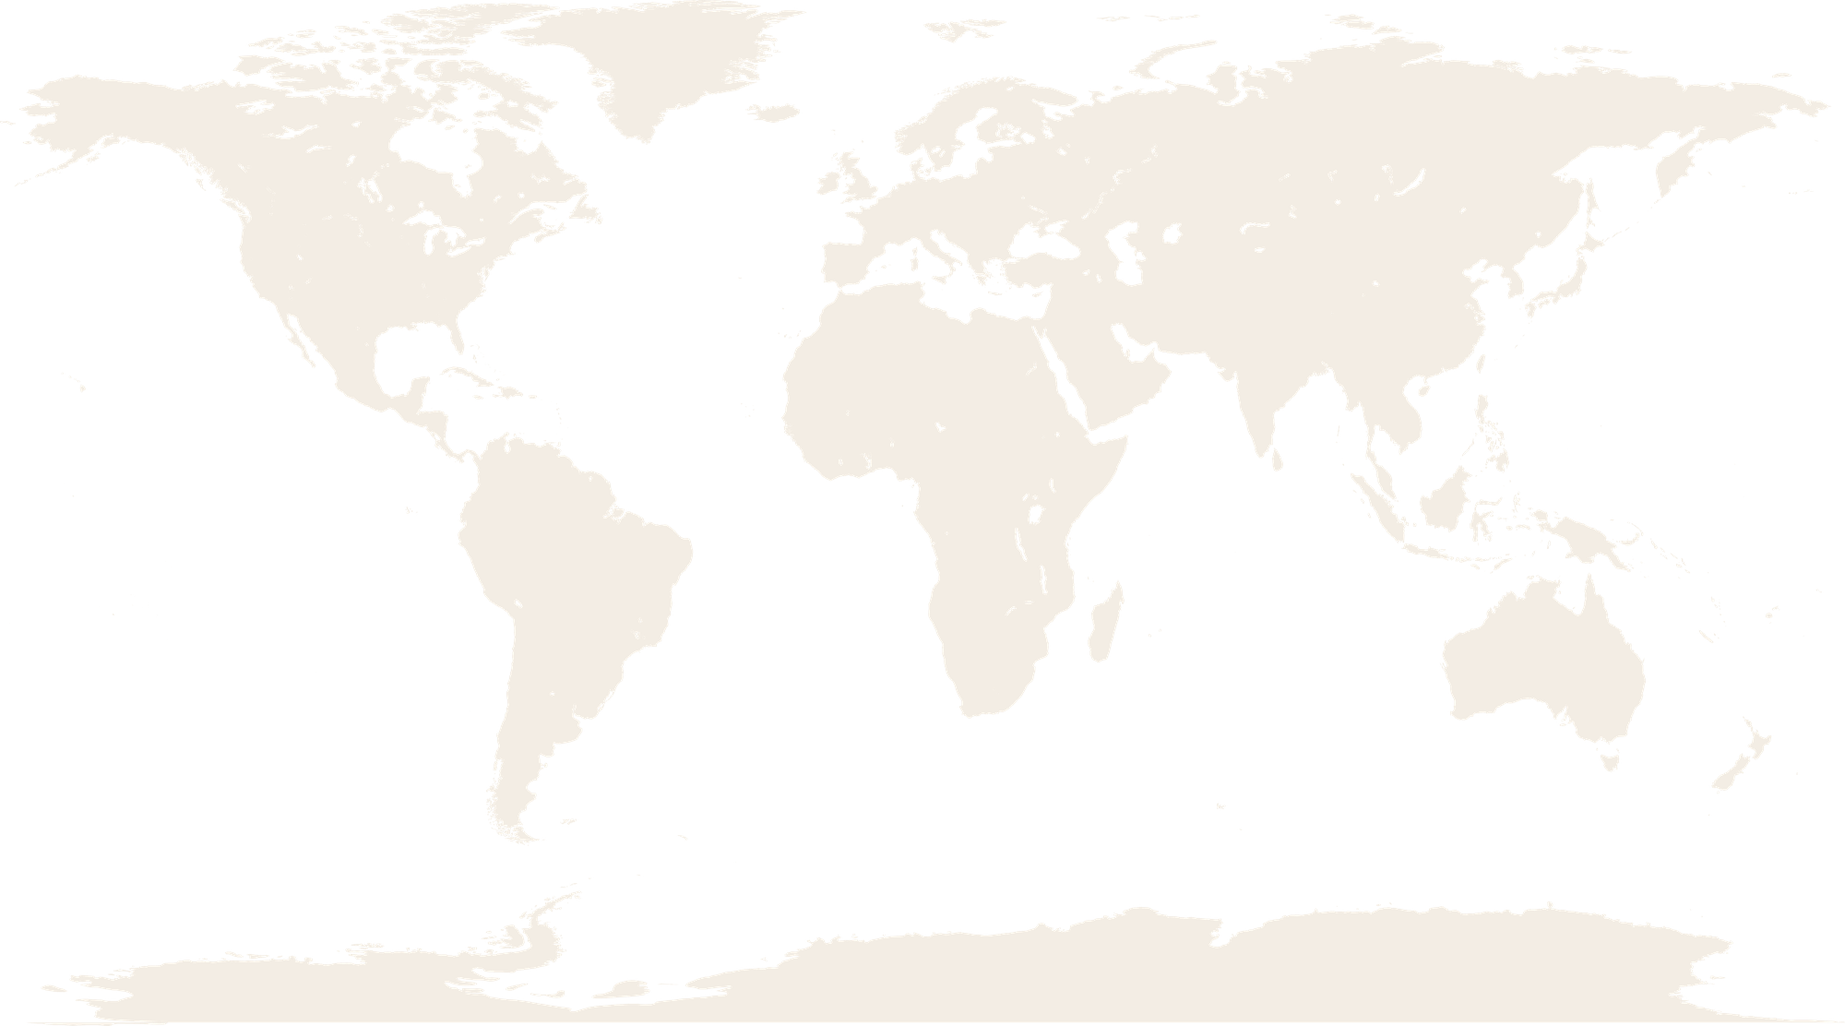
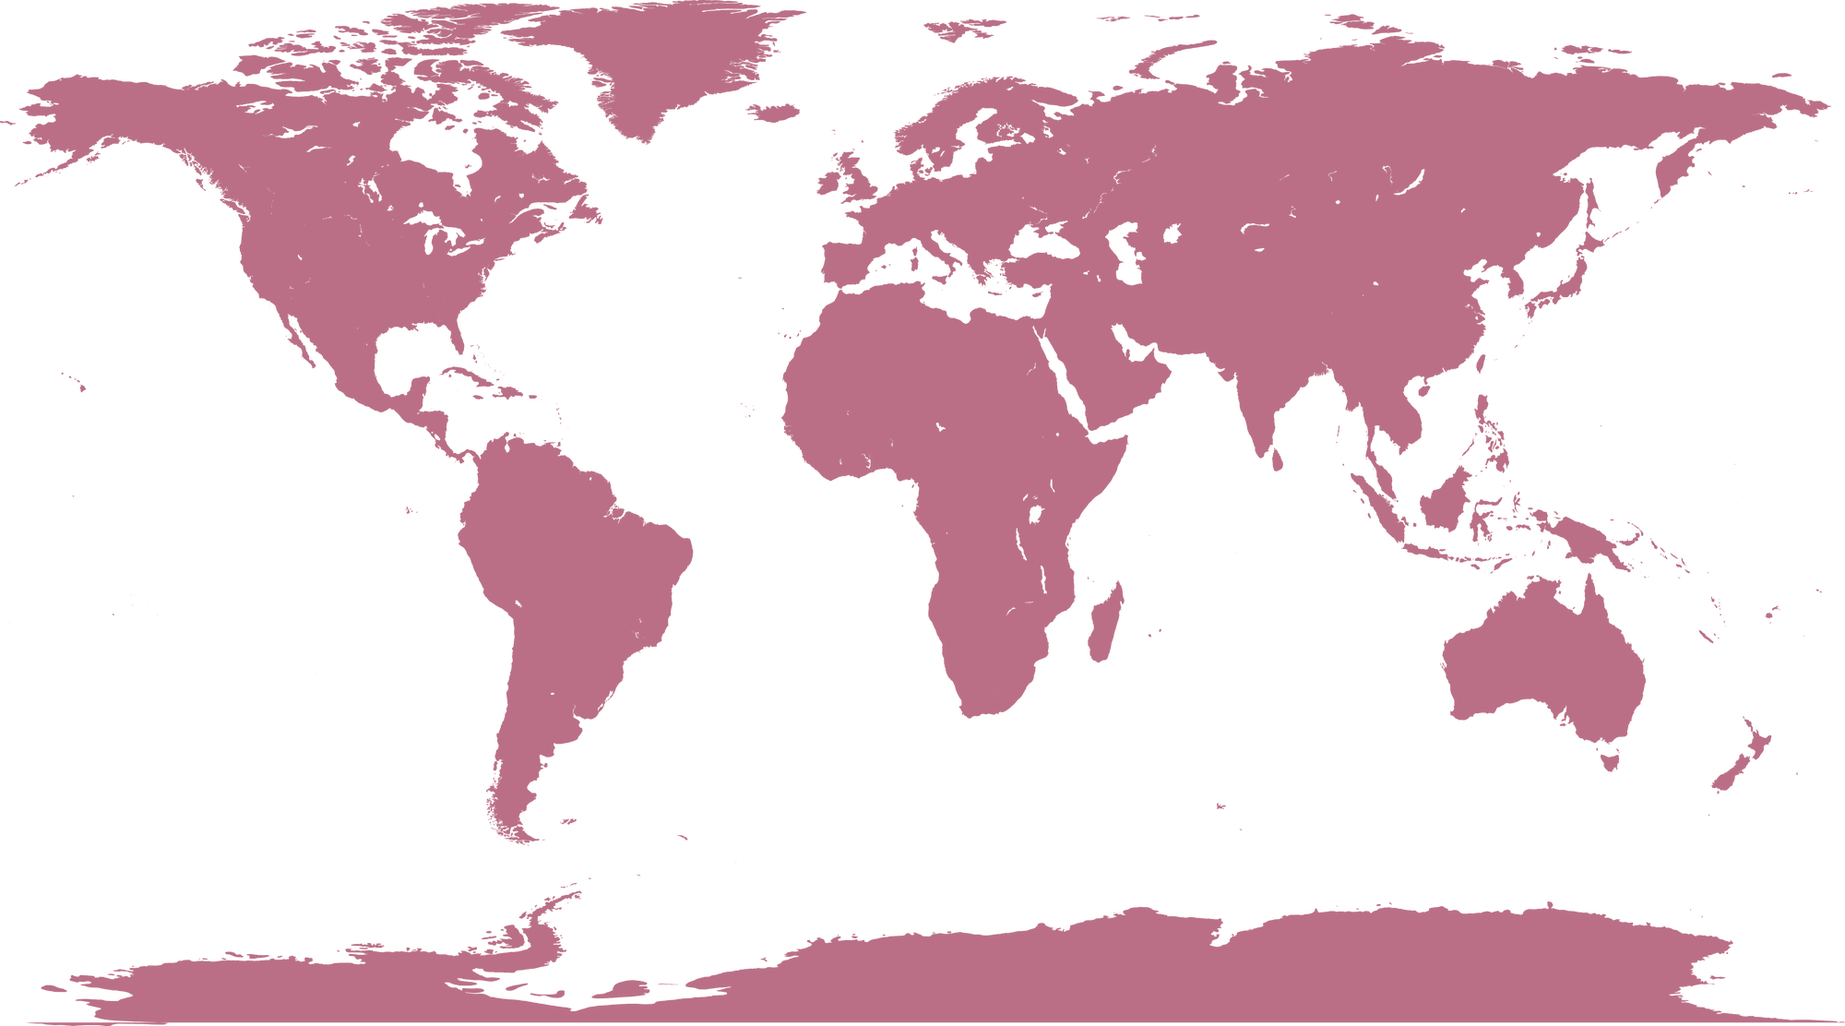
Redesign onboarding screen, tab bar, and dial-screen palette
Onboarding (step 3): replace the plain dark form with a sunset-island
hero photo, logo/back button baked into the image, pink icon fields,
and a pink pill CTA; drop the example hint text per feedback.

Main tab bar: swap the 3-icon dark bar for a 4-icon pink bar (island/
boat/chat/menu) built from a provided icon sheet, with a bubble that
slides between tabs and pops the active icon up into a notch cut
directly out of the bar (CSS mask, not an image) so the real page
background shows through. Added press/tap feedback on every icon,
tuned bar height (64->58->55->45->35px) and icon sizing to match,
and matched the cutout's backdrop to each tab's own background color
so it doesn't look like a stray white strip on the dark tabs.

Coordinate dial screen: recolored the drifting map (dark pink land,
kept the transparent-ocean alpha mask) and changed the screen's base
color to brown for the ocean. Replaced the brightness-filter approach
to tinting the overlaid video's text with an SVG duotone filter
(feColorMatrix -> feComponentTransfer), since CSS sepia/hue-rotate
can't usefully recolor near-white pixels - now renders baby pink.

Claude-Session: https://claude.ai/code/session_01HxxmRPC4h2whAjH8jXWGEn

diff --git a/index.html b/index.html
@@ -179,32 +179,120 @@
     background: var(--accent);
   }
 
-  .field {
-    width: 100%;
-    background: rgba(243,237,228,.06);
-    border: 1px solid rgba(243,237,228,.18);
+  .onb-field {
+    display: flex;
+    align-items: center;
+    gap: 14px;
+    height: 58px;
+    padding: 0 18px;
+    margin-top: 12px;
+    border-radius: 18px;
+    background: #2a201d;
+    border: 1px solid rgba(255,255,255,.12);
+  }
+  .onb-input {
+    flex: 1;
+    min-width: 0;
+    border: none;
+    outline: none;
+    background: transparent;
     color: #f3ede4;
     font-family: 'Noto Sans KR', sans-serif;
-    font-size: 16px;
-    padding: 13px 16px;
-    border-radius: 12px;
-    outline: none;
+    font-size: 15px;
   }
-  .field::placeholder { color: rgba(243,237,228,.32); }
+  .onb-input::placeholder { color: #8d7f7c; }
 
-  .primary-btn {
+  .onb-cta {
     width: 100%;
+    height: 56px;
+    margin-top: 34px;
     border: none;
-    background: var(--accent);
-    color: #15120f;
-    font-family: 'Noto Sans KR', sans-serif;
-    font-weight: 600;
-    font-size: 14px;
-    padding: 14px;
     border-radius: 999px;
+    background: #e8aab7;
+    color: #1d1714;
+    font-family: 'Noto Sans KR', sans-serif;
+    font-weight: 700;
+    font-size: 16px;
     cursor: pointer;
   }
-  .primary-btn:disabled { opacity: .35; cursor: default; }
+  .onb-cta:disabled { opacity: .35; cursor: default; }
+
+  @property --notch-x {
+    syntax: '<percentage>';
+    inherits: true;
+    initial-value: 12.5%;
+  }
+  .tab-bar {
+    --notch-x: 12.5%;
+    position: relative;
+    flex: none;
+    display: flex;
+  }
+  .tab-bar::before {
+    content: '';
+    position: absolute;
+    inset: 0;
+    background: #e8aab7;
+    -webkit-mask-image: radial-gradient(circle 42px at var(--notch-x) 7px, transparent 41px, #000 42px);
+    mask-image: radial-gradient(circle 42px at var(--notch-x) 7px, transparent 41px, #000 42px);
+    transition: --notch-x .55s cubic-bezier(.34, 1.45, .5, 1);
+  }
+  .tab-bubble {
+    position: absolute;
+    top: -26px;
+    left: 0;
+    width: 25%;
+    height: 66px;
+    display: flex;
+    align-items: center;
+    justify-content: center;
+    pointer-events: none;
+    transition: transform .55s cubic-bezier(.34, 1.45, .5, 1);
+  }
+  .tab-bubble::before {
+    content: '';
+    width: 64px;
+    height: 64px;
+    border-radius: 50%;
+    background: #e8aab7;
+  }
+  .tab-btn {
+    flex: 1;
+    height: calc(35px + env(safe-area-inset-bottom));
+    display: flex;
+    align-items: center;
+    justify-content: center;
+    border: none;
+    background: transparent;
+    color: #fff;
+    cursor: pointer;
+  }
+  .tab-icon {
+    --lift: 0px;
+    width: 28px;
+    height: 28px;
+    opacity: .85;
+    transform: translateY(var(--lift));
+    transition: transform .55s cubic-bezier(.34, 1.45, .5, 1), opacity .3s;
+  }
+  .tab-icon * { stroke: currentColor; stroke-width: 3; stroke-linejoin: round; }
+  .tab-btn[data-tab="home"] .tab-icon,
+  .tab-btn[data-tab="explore"] .tab-icon,
+  .tab-btn[data-tab="chat"] .tab-icon { width: 31px; height: 31px; }
+  .tab-btn.active .tab-icon {
+    --lift: calc(7px - 17.5px - env(safe-area-inset-bottom) / 2);
+    opacity: 1;
+  }
+  .tab-btn:active .tab-icon {
+    transform: translateY(var(--lift)) scale(.82);
+    transition-duration: .08s;
+  }
+  .tab-icon.pop { animation: tabPop .45s cubic-bezier(.34, 1.45, .5, 1); }
+  @keyframes tabPop {
+    0%   { transform: translateY(var(--lift)) scale(1); }
+    35%  { transform: translateY(calc(var(--lift) - 4px)) scale(1.18); }
+    100% { transform: translateY(var(--lift)) scale(1); }
+  }
 
   .deed-row {
     display: flex;
@@ -225,6 +313,16 @@
 </head>
 <body>
 
+<svg width="0" height="0" style="position:absolute">
+  <filter id="pinkDuo" color-interpolation-filters="sRGB">
+    <feColorMatrix type="matrix" values="0.299 0.587 0.114 0 0  0.299 0.587 0.114 0 0  0.299 0.587 0.114 0 0  0 0 0 1 0"/>
+    <feComponentTransfer>
+      <feFuncR type="table" tableValues="0 1.113"></feFuncR>
+      <feFuncG type="table" tableValues="0 0.825"></feFuncG>
+      <feFuncB type="table" tableValues="0 0.930"></feFuncB>
+    </feComponentTransfer>
+  </filter>
+</svg>
 <div class="frame" id="frame" style="--accent:#c98a4b;">
 
   <!-- Step 0 — NFC tap -->
@@ -272,9 +370,9 @@
   </div>
 
   <!-- Step 2 — coordinate dial (swipe up to continue) -->
-  <div class="screen plot-map-bg" data-step="2" style="background-color:#0c0a09; color:#f3ede4; padding:0;">
+  <div class="screen plot-map-bg" data-step="2" style="background-color:#4a3024; color:#f3ede4; padding:0;">
     <div class="coord-map-drift" style="position:absolute; inset:0; background-image:url('assets/world-map.png'); opacity:.5;"></div>
-    <video id="dial-video" src="assets/intro-dial.mp4" muted playsinline preload="auto" style="position:absolute; inset:0; width:100%; height:100%; object-fit:cover; object-position:center bottom; opacity:0; transition:opacity .25s ease; filter:brightness(1.5); mix-blend-mode:screen; pointer-events:none;"></video>
+    <video id="dial-video" src="assets/intro-dial.mp4" muted playsinline preload="auto" style="position:absolute; inset:0; width:100%; height:100%; object-fit:cover; object-position:center bottom; opacity:0; transition:opacity .25s ease; filter:url(#pinkDuo); mix-blend-mode:screen; pointer-events:none;"></video>
 
     <div id="dial-drag" style="position:relative; flex:1; display:flex; flex-direction:column; align-items:center; justify-content:flex-end; width:100%; padding:32px 32px calc(56px + env(safe-area-inset-bottom)); touch-action:none; cursor:grab;">
       <div style="display:flex; flex-direction:column; align-items:center; gap:7px; color:rgba(243,237,228,.4); animation: swipeHint 1.8s ease-in-out infinite;">
@@ -285,16 +383,32 @@
   </div>
 
   <!-- Step 3 — basic info input -->
-  <div class="screen" data-step="3" style="background:#0c0a09; color:#f3ede4; align-items:center; justify-content:center; padding:40px 30px;">
-    <div style="width:100%; max-width:320px;">
-      <div style="font-family:'Playfair Display', serif; font-style:italic; font-size:12px; letter-spacing:.1em; color:rgba(243,237,228,.5); text-align:center;">이 섬의 주인은 누구인가요?</div>
-      <input id="profile-nickname" class="field" type="text" placeholder="닉네임" maxlength="16" style="margin-top:22px;">
+  <div class="screen" data-step="3" style="background:#1d1714; color:#f3ede4; padding:0; overflow-y:auto;">
+    <div style="position:relative; flex:none; height:min(44dvh, 380px); overflow:hidden;">
+      <img src="assets/onboarding-hero.jpg" alt="" style="display:block; width:100%; height:100%; object-fit:cover; object-position:center 40%;">
+      <div style="position:absolute; left:0; right:0; bottom:0; height:40%; background:linear-gradient(to bottom, rgba(29,23,20,0), #1d1714);"></div>
+      <button id="onb-back" aria-label="이전으로" style="position:absolute; left:0; top:calc(40px + env(safe-area-inset-top)); width:48px; height:48px; border:none; background:transparent; cursor:pointer;"></button>
+    </div>
 
-      <div style="font-family:'Playfair Display', serif; font-style:italic; font-size:12px; letter-spacing:.1em; color:rgba(243,237,228,.5); text-align:center; margin-top:30px;">당신의 섬에 이름을 붙여주세요</div>
-      <div style="font-size:11px; color:rgba(243,237,228,.35); text-align:center; margin-top:4px;">예: 고요섬, 물결섬</div>
-      <input id="profile-island" class="field" type="text" placeholder="섬 이름" maxlength="12" style="margin-top:14px;">
+    <div style="flex:none; padding:0 30px calc(28px + env(safe-area-inset-bottom));">
+      <div style="text-align:center;">
+        <div style="font-size:23px; font-weight:700;">당신의 섬이 기다리고 있어요</div>
+        <div style="font-size:13.5px; color:rgba(243,237,228,.6); margin-top:8px;">이름을 정하고, 나만의 공간으로 떠나보세요.</div>
+      </div>
 
-      <button id="profile-confirm" class="primary-btn" disabled style="margin-top:32px;">나의 섬으로 이동</button>
+      <div style="margin-top:30px; font-size:14px;">이 섬의 주인은 누구인가요?</div>
+      <label class="onb-field">
+        <svg width="26" height="26" viewBox="0 0 24 24" fill="none" aria-hidden="true"><circle cx="12" cy="8" r="4.5" fill="#e8aab7"/><path d="M4 21c0-4.4 3.6-7.5 8-7.5s8 3.1 8 7.5z" fill="#e8aab7"/></svg>
+        <input id="profile-nickname" class="onb-input" type="text" placeholder="닉네임을 입력해주세요" maxlength="16">
+      </label>
+
+      <div style="margin-top:22px; font-size:14px;">당신의 섬에 이름을 붙여주세요</div>
+      <label class="onb-field">
+        <svg width="26" height="26" viewBox="0 0 24 24" fill="none" aria-hidden="true"><path d="M3 20.5c3-1.6 6-1.6 9 0 3-1.6 6-1.6 9 0z" fill="#e8aab7"/><path d="M12 19.5c-.3-3.5.2-7 1.4-10.5" stroke="#e8aab7" stroke-width="1.8" stroke-linecap="round"/><path d="M13.4 9c-2-2.5-4.6-3.2-7.2-2.4M13.4 9c1.6-2.8 4.2-3.7 7-2.6M13.4 9c-.4-2.6.4-4.6 2.2-5.8M13.4 9c-1.4-2-.9-4.4.2-5.8" stroke="#e8aab7" stroke-width="1.8" stroke-linecap="round"/></svg>
+        <input id="profile-island" class="onb-input" type="text" placeholder="섬 이름을 입력해주세요" maxlength="12">
+      </label>
+
+      <button id="profile-confirm" class="onb-cta" disabled>나의 섬으로 이동</button>
     </div>
   </div>
 
@@ -380,19 +494,14 @@
 
     </div>
 
-    <div style="flex:none; display:flex; background:#15120f; padding-bottom:env(safe-area-inset-bottom); border-top:1px solid rgba(243,237,228,.08);">
-      <button class="tab-btn active" data-tab="home" style="flex:1; display:flex; flex-direction:column; align-items:center; gap:4px; padding:11px 0 9px; border:none; background:transparent; cursor:pointer; color:#f3ede4;">
-        <svg width="20" height="20" viewBox="0 0 24 24" fill="none"><path d="M4 11.5L12 4L20 11.5" stroke="currentColor" stroke-width="1.6" stroke-linecap="round" stroke-linejoin="round"/><path d="M6 10V20H18V10" stroke="currentColor" stroke-width="1.6" stroke-linejoin="round"/></svg>
-        <span style="font-size:10.5px; letter-spacing:.04em;">나의 섬</span>
-      </button>
-      <button class="tab-btn" data-tab="explore" style="flex:1; display:flex; flex-direction:column; align-items:center; gap:4px; padding:11px 0 9px; border:none; background:transparent; cursor:pointer; color:rgba(243,237,228,.4);">
-        <svg width="20" height="20" viewBox="0 0 24 24" fill="none"><circle cx="12" cy="10" r="6.5" stroke="currentColor" stroke-width="1.6"/><path d="M12 3.5V16.5M5.5 10H18.5" stroke="currentColor" stroke-width="1.2" opacity=".6"/><path d="M12 16.5C13.5 19 15 20.5 15 20.5H9C9 20.5 10.5 19 12 16.5Z" stroke="currentColor" stroke-width="1.6" stroke-linejoin="round"/></svg>
-        <span style="font-size:10.5px; letter-spacing:.04em;">둘러보기</span>
-      </button>
-      <button class="tab-btn" data-tab="chat" style="flex:1; display:flex; flex-direction:column; align-items:center; gap:4px; padding:11px 0 9px; border:none; background:transparent; cursor:pointer; color:rgba(243,237,228,.4);">
-        <svg width="20" height="20" viewBox="0 0 24 24" fill="none"><path d="M4 5.5H20V16H9L5 19.5V16H4V5.5Z" stroke="currentColor" stroke-width="1.6" stroke-linejoin="round"/></svg>
-        <span style="font-size:10.5px; letter-spacing:.04em;">커뮤니티</span>
-      </button>
+    <div id="tab-menu" class="tab-panel" style="display:none; flex:1; min-height:0; align-items:center; justify-content:center; background:#1d1714; color:rgba(243,237,228,.5); font-size:13px;">준비 중이에요</div>
+
+    <div class="tab-bar">
+      <div id="tab-bubble" class="tab-bubble"></div>
+      <button class="tab-btn active" data-tab="home" aria-label="나의 섬"><svg class="tab-icon" viewBox="46.3 238.5 124.4 118.9" fill="currentColor" aria-hidden="true"><path d="M83.54,336.61c-.47,0-.94-.02-1.42-.05-2.99-.22-5.82-1.13-8.54-2.02-2.85-.92-5.79-1.88-8.94-2.04-.45-.03-1.68.05-2.88.12-5.67.34-7.06.31-7.8-.71-1.06-1.46.22-3.44,2.95-6.56l.07-.08c3.07-3.52,7.69-8.14,12.37-12.38,13.98-12.66,26.51-17.98,40.42-17.15,2.63-9.5,6.43-17.6,11.33-24.12-6.31-1.27-12.37-1.16-19.35.34-.27.06-.85.24-1.46.44-3.83,1.23-6.43,1.92-7.6.26-2.1-2.99,3.21-8.62,3.82-9.25,5.65-5.83,13.92-8.52,21.64-7.31l-.06-.08c-2.73-2.11-5.44-4.09-8.46-5.34-.44-.18-1.45-.47-2.44-.75-2.41-.69-3.45-1.02-3.99-1.46-1.41-1.15-1.38-2.35-1.24-2.97.54-2.35,4.35-3.59,6.57-4.12,7.45-1.78,13.97-.87,18.88,2.62,4,2.85,6.63,7.29,7.69,12.92.15-.13.31-.26.46-.4,1.08-.93,2.2-1.9,3.54-2.67,8.16-4.7,17.32-3.72,23.89,2.56,2.19,2.09,4.31,4.51,3.4,6.56-.99,2.23-4.37,1.97-8.27,1.68-1.43-.11-2.78-.21-3.76-.16-1.65.09-4.25.51-5.81.86-.23.05-.87.24-1.61.47,9.63,3.72,15.12,10.55,15.95,19.89,0,.09.31,9.3-1.82,10.67-.81.52-1.99.32-2.33.25-1.35-.29-2.65-2.01-5.1-5.6-.58-.84-1.12-1.64-1.44-2.03-5.22-6.31-12.15-11.25-19.59-13.99-2.8,4.31-5.03,9.44-6.65,15.28-1.56,5.64-1.81,7.84-1.83,8.61.47.18,1.22.42,1.76.59,1.03.33,2.01.64,2.66.95,5.35,2.56,9.1,5.85,13.07,9.33,1.76,1.54,3.58,3.14,5.55,4.67,2.24,1.74,5,2.83,7.91,3.98,4.93,1.95,10.03,3.96,12.63,9.35.73,1.52,1.57,3.72.3,5.23-1.57,1.86-4.8.94-8.21-.05-1.23-.35-2.38-.68-3.19-.79-4.32-.57-8.15-.42-12.04.48-1.53.35-3,.94-4.56,1.56-1.7.68-3.47,1.38-5.33,1.76-6.11,1.25-11.26-.34-16.24-1.88-3.78-1.17-7.7-2.37-12.05-2.33-3.93.04-7.64,1.24-11.23,2.4-3.7,1.2-7.51,2.43-11.6,2.43ZM64.44,329.51c.13,0,.24,0,.35,0,3.55.18,6.68,1.19,9.72,2.18,2.68.87,5.2,1.69,7.83,1.88,4.05.29,7.86-.94,11.88-2.24,3.81-1.23,7.74-2.51,12.13-2.55,4.83-.05,8.97,1.23,12.96,2.47,4.83,1.49,9.39,2.9,14.75,1.81,1.6-.33,3.16-.95,4.82-1.61,1.6-.64,3.25-1.29,5-1.7,4.25-.98,8.42-1.15,13.11-.53,1.03.14,2.29.5,3.63.88,1.48.43,4.18,1.2,5.04.98,0-.23-.09-.81-.65-1.97-2.09-4.33-6.43-6.05-11.03-7.87-2.98-1.18-6.07-2.4-8.65-4.39-2.04-1.58-3.9-3.21-5.69-4.78-3.81-3.34-7.4-6.5-12.38-8.88-.46-.22-1.43-.53-2.28-.8-1.54-.49-2.44-.79-2.97-1.16-.86-.6-1.83-1.29,1.06-11.7,1.83-6.6,4.42-12.36,7.71-17.13l.64-.93,1.07.36c8.38,2.83,16.2,8.27,22.02,15.3.4.49.96,1.3,1.61,2.24.82,1.2,2.45,3.58,3.23,4.27.42-1.72.68-6.28.56-7.63-.8-9.03-6.41-15.18-16.68-18.26l-.12-.03c-.37-.08-1.36-.29-1.65-1.3-.14-.46-.14-1.17.61-1.91.68-.67,5.78-2.05,5.83-2.06,1.66-.37,4.42-.82,6.29-.93,1.18-.07,2.63.04,4.16.16,1.51.11,4.21.32,5.18.03-.18-.4-.76-1.34-2.61-3.1-5.66-5.41-13.26-6.2-20.32-2.13-1.09.63-2.05,1.46-3.07,2.34-.85.73-1.72,1.49-2.71,2.15l-2.09,1.41-.24-2.5c-.59-6-2.94-10.64-6.82-13.4-4.17-2.98-9.86-3.72-16.44-2.15-1.95.47-3.69,1.25-4.23,1.76.01.01.03.02.04.04.42.21,2.01.67,2.97.94,1.16.33,2.16.62,2.76.87,3.42,1.42,6.35,3.58,9.31,5.86l.16.12,5.9,7.86-4.75-1.74c-7.69-2.81-16.83-.61-22.73,5.48-1.61,1.66-3.17,4.03-3.44,5.13,1.09-.1,3.25-.8,4.15-1.09.74-.24,1.33-.43,1.75-.52,8.29-1.78,15.38-1.72,22.99.2l2.3.58-1.51,1.83c-5.56,6.74-9.78,15.51-12.55,26.07l-.32,1.22-1.26-.11c-13.52-1.15-25.68,3.87-39.41,16.3-4.6,4.16-9.13,8.69-12.13,12.12l-.07.08c-1.01,1.15-1.62,1.95-2,2.49,1.31,0,3.21-.12,4.41-.19,1.21-.07,2.21-.13,2.86-.13ZM105.1,246.16s0,0,0,0c0,0,0,0,0,0Z"></path><path d="M83.87,355.38c-.66,0-1.36-.02-2.09-.07-3.58-.24-6.84-1.47-9.98-2.67-4.21-1.59-8.19-3.1-12.4-1.96-.46.12-1.08.41-1.74.7-1.85.84-4.15,1.88-6.25,1.04-1.17-.47-2.06-1.44-2.64-2.89-.86-2.14-.64-4.2.64-5.94,3.1-4.2,11.67-5.43,15.36-5.12,3.56.29,6.62,1.49,9.59,2.64,3.59,1.39,6.98,2.71,11.09,2.45,2.84-.18,5.54-1.31,8.4-2.51,2.97-1.25,6.05-2.53,9.56-2.88h0c7.14-.7,10.66.69,14.74,2.3,1.8.71,3.66,1.44,6.09,2.13,5.94,1.68,10.58,0,15.48-1.77,4.47-1.62,9.09-3.29,15.05-2.76,3.3.3,11.18,2.38,13.08,6.63.55,1.23.85,3.17-.85,5.45-2.79,3.75-6.16,2.16-8.39,1.11-.65-.31-1.27-.6-1.84-.78-5.46-1.7-10.03.05-14.87,1.91-3.74,1.43-7.6,2.92-12.1,2.96-.07,0-.14,0-.21,0-4.82,0-8.68-1.49-12.42-2.93-4.73-1.82-9.19-3.54-15.22-1.96-2.4.63-4.38,1.43-6.29,2.19-3.46,1.4-6.76,2.73-11.79,2.73ZM62.45,347.28c3.66,0,7.08,1.29,10.41,2.56,2.94,1.11,5.98,2.27,9.12,2.48,5.57.38,8.81-.93,12.56-2.44,1.99-.8,4.06-1.64,6.65-2.31,6.97-1.83,12.1.15,17.06,2.06,3.64,1.4,7.08,2.73,11.34,2.73.06,0,.12,0,.18,0,3.96-.04,7.57-1.42,11.06-2.76,5.11-1.96,10.39-3.99,16.84-1.97.77.24,1.51.59,2.23.93,2.55,1.2,3.48,1.45,4.7-.18.9-1.21.73-1.97.52-2.43-1.1-2.45-7.11-4.55-10.61-4.86-5.29-.48-9.6,1.08-13.76,2.59-5.13,1.86-10.44,3.78-17.32,1.84-2.57-.72-4.59-1.52-6.37-2.22-4.02-1.58-6.93-2.73-13.35-2.1h0c-3.06.3-5.92,1.5-8.69,2.66-2.96,1.24-6.03,2.52-9.37,2.74-4.77.31-8.64-1.19-12.37-2.65-2.89-1.12-5.63-2.19-8.75-2.44-3.14-.25-10.47.89-12.7,3.91-.66.9-.75,1.86-.27,3.04.27.66.6,1.08.98,1.23.91.36,2.56-.38,3.89-.99.77-.35,1.5-.68,2.2-.87,1.31-.35,2.58-.5,3.83-.5Z"></path></svg></button>
+      <button class="tab-btn" data-tab="explore" aria-label="둘러보기"><svg class="tab-icon" viewBox="307.3 249.6 119.6 105.1" fill="currentColor" aria-hidden="true"><path d="M367.83,352.74c-.38,0-.63,0-.72,0-1.06,0-26.41.08-36.03-2.14-10.33-2.38-18.29-13.64-20.89-20.18-1.09-2.74-1.14-4.97-.14-6.62,1.16-1.92,3.21-2.21,3.44-2.23h.17s107.1,0,107.1,0c.23.03,2.28.31,3.44,2.23.99,1.65.94,3.88-.15,6.62-2.59,6.54-10.56,17.8-20.89,20.18-8.84,2.04-30.97,2.14-35.33,2.14ZM367.11,349.74c.27,0,26.09.08,35.37-2.06,8.72-2.01,16.23-11.95,18.77-18.36.7-1.76.83-3.16.38-3.95-.34-.58-.97-.76-1.17-.81h-106.69c-.18.04-.82.21-1.17.81-.45.79-.32,2.19.38,3.95,2.54,6.41,10.05,16.35,18.77,18.36,9.28,2.14,35.1,2.06,35.36,2.06Z"></path><path d="M355.68,311.18h-29.04c-1.94,0-3.65-1.09-4.47-2.86-.81-1.76-.54-3.78.72-5.25l29.04-34.04c1.35-1.58,3.49-2.14,5.44-1.42,1.95.72,3.22,2.53,3.22,4.62v34.04c0,2.71-2.21,4.92-4.92,4.92ZM355.64,270.29c-.43,0-.96.14-1.42.68l-29.04,34.04c-.5.58-.6,1.35-.28,2.05.32.7.97,1.12,1.74,1.12h29.04c1.06,0,1.92-.86,1.92-1.92v-34.04c0-1.24-.96-1.69-1.26-1.8-.13-.05-.39-.12-.7-.12Z"></path><path d="M409.81,311.18h-39.1c-2.71,0-4.92-2.21-4.92-4.92v-49.69c0-2.13,1.3-3.95,3.31-4.65,2.01-.7,4.16-.07,5.47,1.61l39.1,49.69c1.17,1.49,1.39,3.48.56,5.19-.83,1.71-2.53,2.77-4.42,2.77ZM370.75,254.64c-.3,0-.55.07-.67.11-.3.1-1.29.55-1.29,1.81v49.69c0,1.06.86,1.92,1.92,1.92h39.1c.75,0,1.4-.4,1.73-1.08.33-.68.25-1.43-.22-2.02l-39.1-49.69c-.47-.59-1.02-.74-1.46-.74Z"></path></svg></button>
+      <button class="tab-btn" data-tab="chat" aria-label="커뮤니티"><svg class="tab-icon" viewBox="605.8 251.2 113.3 99.1" fill="currentColor" aria-hidden="true"><path d="M700.68,265.11c-21.18-15.84-55.53-15.84-76.71,0-10.49,7.82-16.22,18.32-16.22,29.58,0,12.4,7.06,23.85,19.65,31.87l-2.86,19.08c-.19.95.19,1.91,1.15,2.29.76.57,1.72.57,2.67,0l20.42-13.17c17.56,3.44,37.59.38,52.29-10.49,21.37-16.22,21.37-42.94-.38-59.16ZM662.32,331.32c-4.77,0-9.35-.57-13.93-1.53-.57-.19-1.33,0-1.72.38l-16.79,10.88,2.29-15.46c.19-.95-.38-1.91-1.15-2.48-11.83-7.06-18.7-17.37-18.7-28.62,0-20.23,22.33-36.64,49.8-36.64s49.8,16.41,49.8,36.64-22.14,36.83-49.61,36.83Z"></path><circle cx="647.82" cy="293.54" r="4.77"></circle><circle cx="662.13" cy="293.54" r="4.77"></circle><circle cx="676.44" cy="293.54" r="4.77"></circle></svg></button>
+      <button class="tab-btn" data-tab="menu" aria-label="메뉴"><svg class="tab-icon" viewBox="859.3 267.2 87.0 69.9" fill="currentColor" aria-hidden="true"><path d="M941.25,275.23h-76.95c-1.66,0-3-1.34-3-3s1.34-3,3-3h76.95c1.66,0,3,1.34,3,3s-1.34,3-3,3Z"></path><path d="M941.25,305.19h-76.95c-1.66,0-3-1.34-3-3s1.34-3,3-3h76.95c1.66,0,3,1.34,3,3s-1.34,3-3,3Z"></path><path d="M941.25,335.15h-76.95c-1.66,0-3-1.34-3-3s1.34-3,3-3h76.95c1.66,0,3,1.34,3,3s-1.34,3-3,3Z"></path></svg></button>
     </div>
   </div>
 
@@ -566,6 +675,7 @@
     saveProfile(profile);
     goTo(4);
   });
+  document.getElementById('onb-back').addEventListener('click', function () { goTo(2); });
 
   // --- Step 2: swipe up to continue ---
   (function initSwipeUp() {
@@ -625,16 +735,21 @@
   var tabHome = document.getElementById('tab-home');
   var tabExplore = document.getElementById('tab-explore');
   var tabChat = document.getElementById('tab-chat');
-  var tabPanels = { home: tabHome, explore: tabExplore, chat: tabChat };
-  var tabDisplay = { home: 'block', explore: 'flex', chat: 'flex' };
+  var tabMenu = document.getElementById('tab-menu');
+  var tabPanels = { home: tabHome, explore: tabExplore, chat: tabChat, menu: tabMenu };
+  var tabDisplay = { home: 'block', explore: 'flex', chat: 'flex', menu: 'flex' };
+  var tabOrder = ['home', 'explore', 'chat', 'menu'];
+  var tabBg = { home: '#eeece7', explore: '#15120f', chat: '#15120f', menu: '#1d1714' };
+  var tabBubble = document.getElementById('tab-bubble');
   var tabBtns = Array.prototype.slice.call(document.querySelectorAll('.tab-btn'));
 
   function showTab(target) {
     tabBtns.forEach(function (b) {
-      var active = b.dataset.tab === target;
-      b.classList.toggle('active', active);
-      b.style.color = active ? '#f3ede4' : 'rgba(243,237,228,.4)';
+      b.classList.toggle('active', b.dataset.tab === target);
     });
+    tabBubble.style.transform = 'translateX(' + (tabOrder.indexOf(target) * 100) + '%)';
+    document.querySelector('.tab-bar').style.setProperty('--notch-x', (tabOrder.indexOf(target) * 25 + 12.5) + '%');
+    document.querySelector('.screen[data-step="4"]').style.background = tabBg[target];
     Object.keys(tabPanels).forEach(function (key) {
       tabPanels[key].style.display = key === target ? tabDisplay[key] : 'none';
     });
@@ -645,6 +760,10 @@
   tabBtns.forEach(function (btn) {
     btn.addEventListener('click', function (e) {
       e.stopPropagation();
+      var icon = btn.querySelector('.tab-icon');
+      icon.classList.remove('pop');
+      void icon.offsetWidth;
+      icon.classList.add('pop');
       showTab(btn.dataset.tab);
     });
   });
